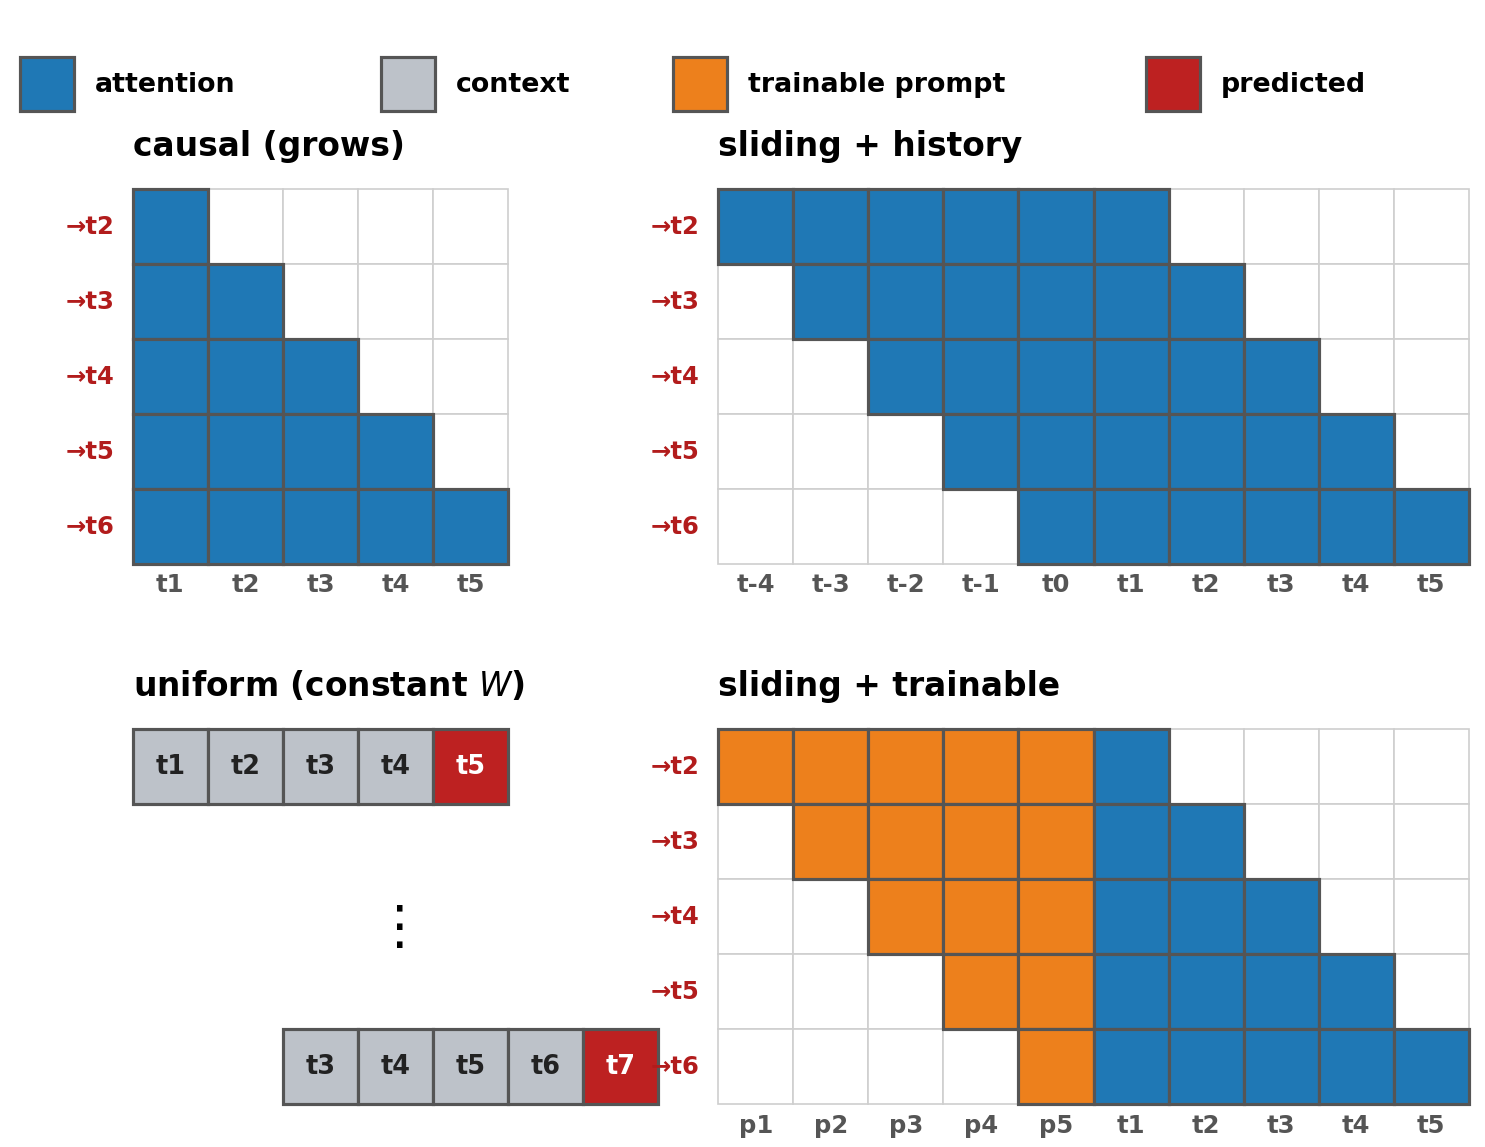
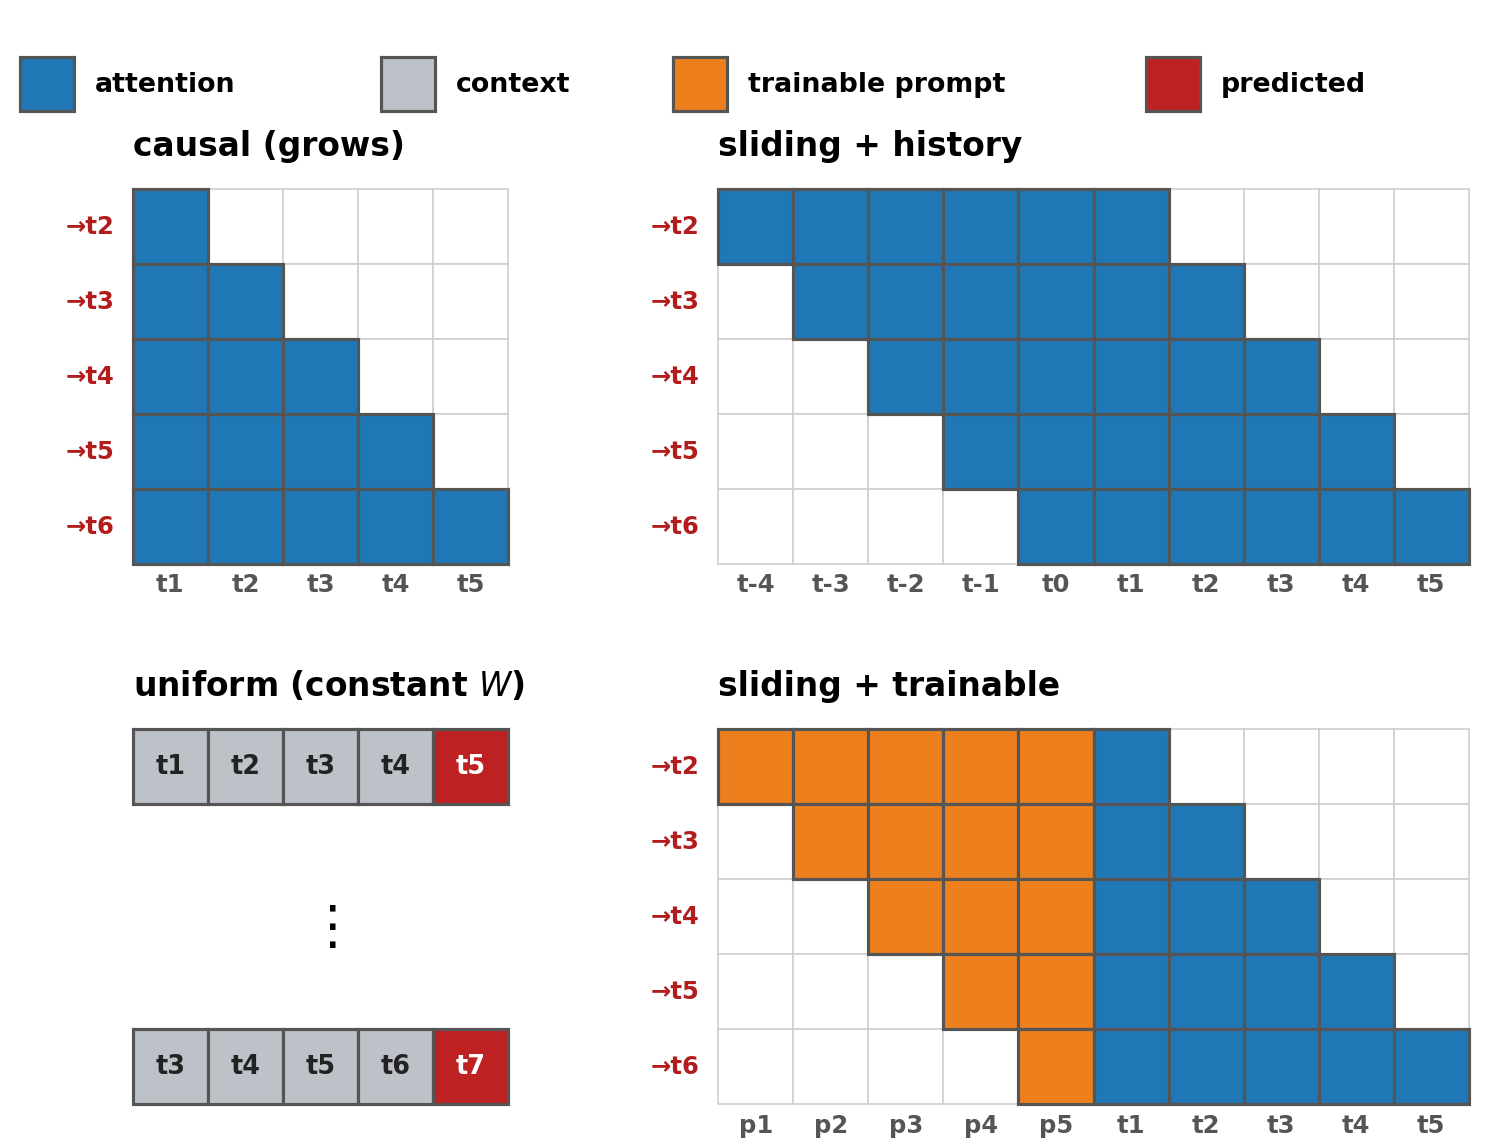
paper fig: uniform sequences with aligned boxes (top/bottom same columns) + shifted token indices

Changed region(s): [[0.2478, 0.8849, 0.4646, 0.9765], [0.062, 0.8849, 0.2168, 0.9765]]

diff --git a/paper/attention-sink/main.tex b/paper/attention-sink/main.tex
@@ -77,7 +77,7 @@ We state four hypotheses, each a claim presented with its mechanism and the expe
 \begin{figure}[t]
 \centering
 \includegraphics[width=\linewidth]{figures/windowed_attention.png}
-\caption{Four continued-pretraining regimes (\textcolor[rgb]{0.12,0.47,0.71}{blue} = the attention mask in the matrix panels; \textcolor[rgb]{0.5,0.52,0.55}{grey} = a context token and \textcolor[rgb]{0.70,0.11,0.11}{crimson} the predicted token in the uniform sequence panel). \textbf{Top, attention masks} (rows = a predicting step, columns = attended positions; both predict every token): the standard \emph{causal} mask, where context grows with position; and a \emph{sliding window} of constant width $W$ whose cold start is filled with real prior text (blue, the same as content --- history is just earlier context). \textbf{Bottom:} the \emph{uniform window} is not an attention mask but fixed-length training --- a stack of fixed-length sequences (two successive windows shown, aligned by stream position so the shared tokens line up, $\vdots$ for the rest), each predicting only its last token (crimson) from its preceding context, so it also runs on a recurrence; and a \emph{sliding window with trainable tokens}, whose cold start is filled by a trainable startup prompt (orange) that slides out as content accumulates. Older real context must be carried by the weights.}
+\caption{Four continued-pretraining regimes (\textcolor[rgb]{0.12,0.47,0.71}{blue} = the attention mask in the matrix panels; \textcolor[rgb]{0.5,0.52,0.55}{grey} = a context token and \textcolor[rgb]{0.70,0.11,0.11}{crimson} the predicted token in the uniform sequence panel). \textbf{Top, attention masks} (rows = a predicting step, columns = attended positions; both predict every token): the standard \emph{causal} mask, where context grows with position; and a \emph{sliding window} of constant width $W$ whose cold start is filled with real prior text (blue, the same as content --- history is just earlier context). \textbf{Bottom:} the \emph{uniform window} is not an attention mask but fixed-length training --- a stack of fixed-length sequences (two windows shown with aligned boxes and shifted token indices, $\vdots$ for the rest), each predicting only its last token (crimson) from its preceding context, so it also runs on a recurrence; and a \emph{sliding window with trainable tokens}, whose cold start is filled by a trainable startup prompt (orange) that slides out as content accumulates. Older real context must be carried by the weights.}
 \label{fig:windowed}
 \end{figure}
 

diff --git a/experiments/07_autoresearch_sink/scripts/make_windowed_attention_fig.py b/experiments/07_autoresearch_sink/scripts/make_windowed_attention_fig.py
@@ -40,8 +40,8 @@ def useq(sx,ry,toks):           # 5-length predict-last sequence; tokens by ABSO
         Cl(ox+sx+c,ry,GREY); ax.text(ox+sx+c+.5,ry+.5,toks[c],fontsize=10.5,fontweight="bold",ha="center",va="center",color="#222")
     Cl(ox+sx+4,ry,PREDC); ax.text(ox+sx+4+.5,ry+.5,toks[4],fontsize=10.5,fontweight="bold",ha="center",va="center",color="white")
 useq(0,7.2,["t1","t2","t3","t4","t5"])      # top seq aligns with the right panel's top row (->t2)
-ax.text(ox+3.4,9.85,r"$\vdots$",fontsize=22,fontweight="bold",ha="center",va="center")
-useq(2,11.2,["t3","t4","t5","t6","t7"])     # bottom seq shifted +2 (t3 under t3); aligns with bottom row (->t6)
+ax.text(ox+2.5,9.85,r"$\vdots$",fontsize=22,fontweight="bold",ha="center",va="center")
+useq(0,11.2,["t3","t4","t5","t6","t7"])     # bottom seq: same boxes (aligned top & bottom), numbers just shifted
 # SLIDING+TRAINABLE -- right col, bottom
 attn(7.8,7.2,"sliding + trainable",PROMPT,["p1","p2","p3","p4","p5","t1","t2","t3","t4","t5"])
 # compact legend drawn in-canvas just above the panels (close to content, fills width)
